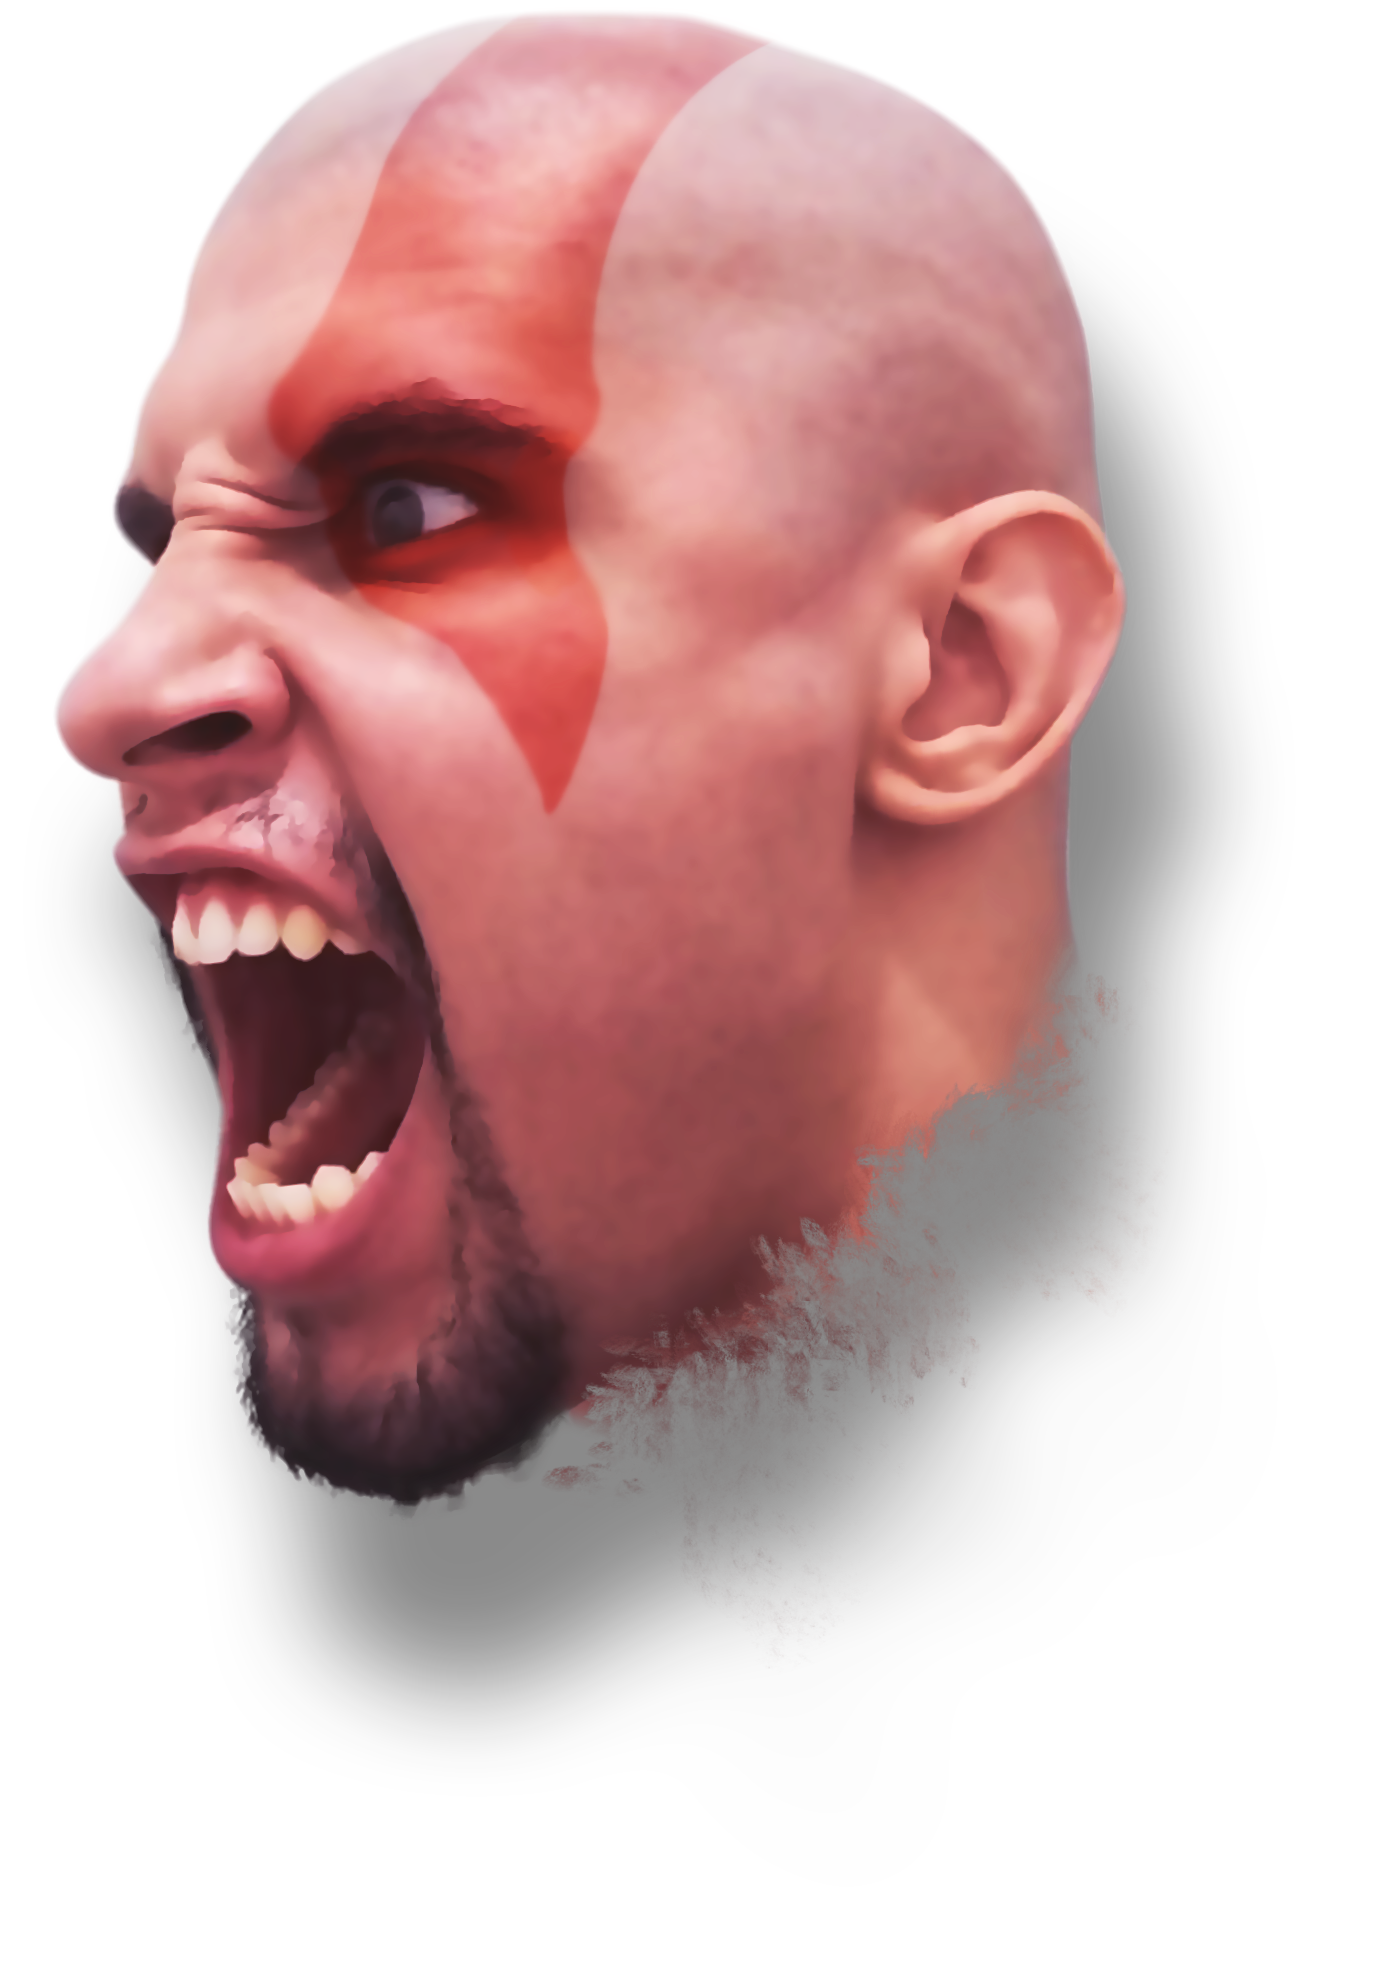
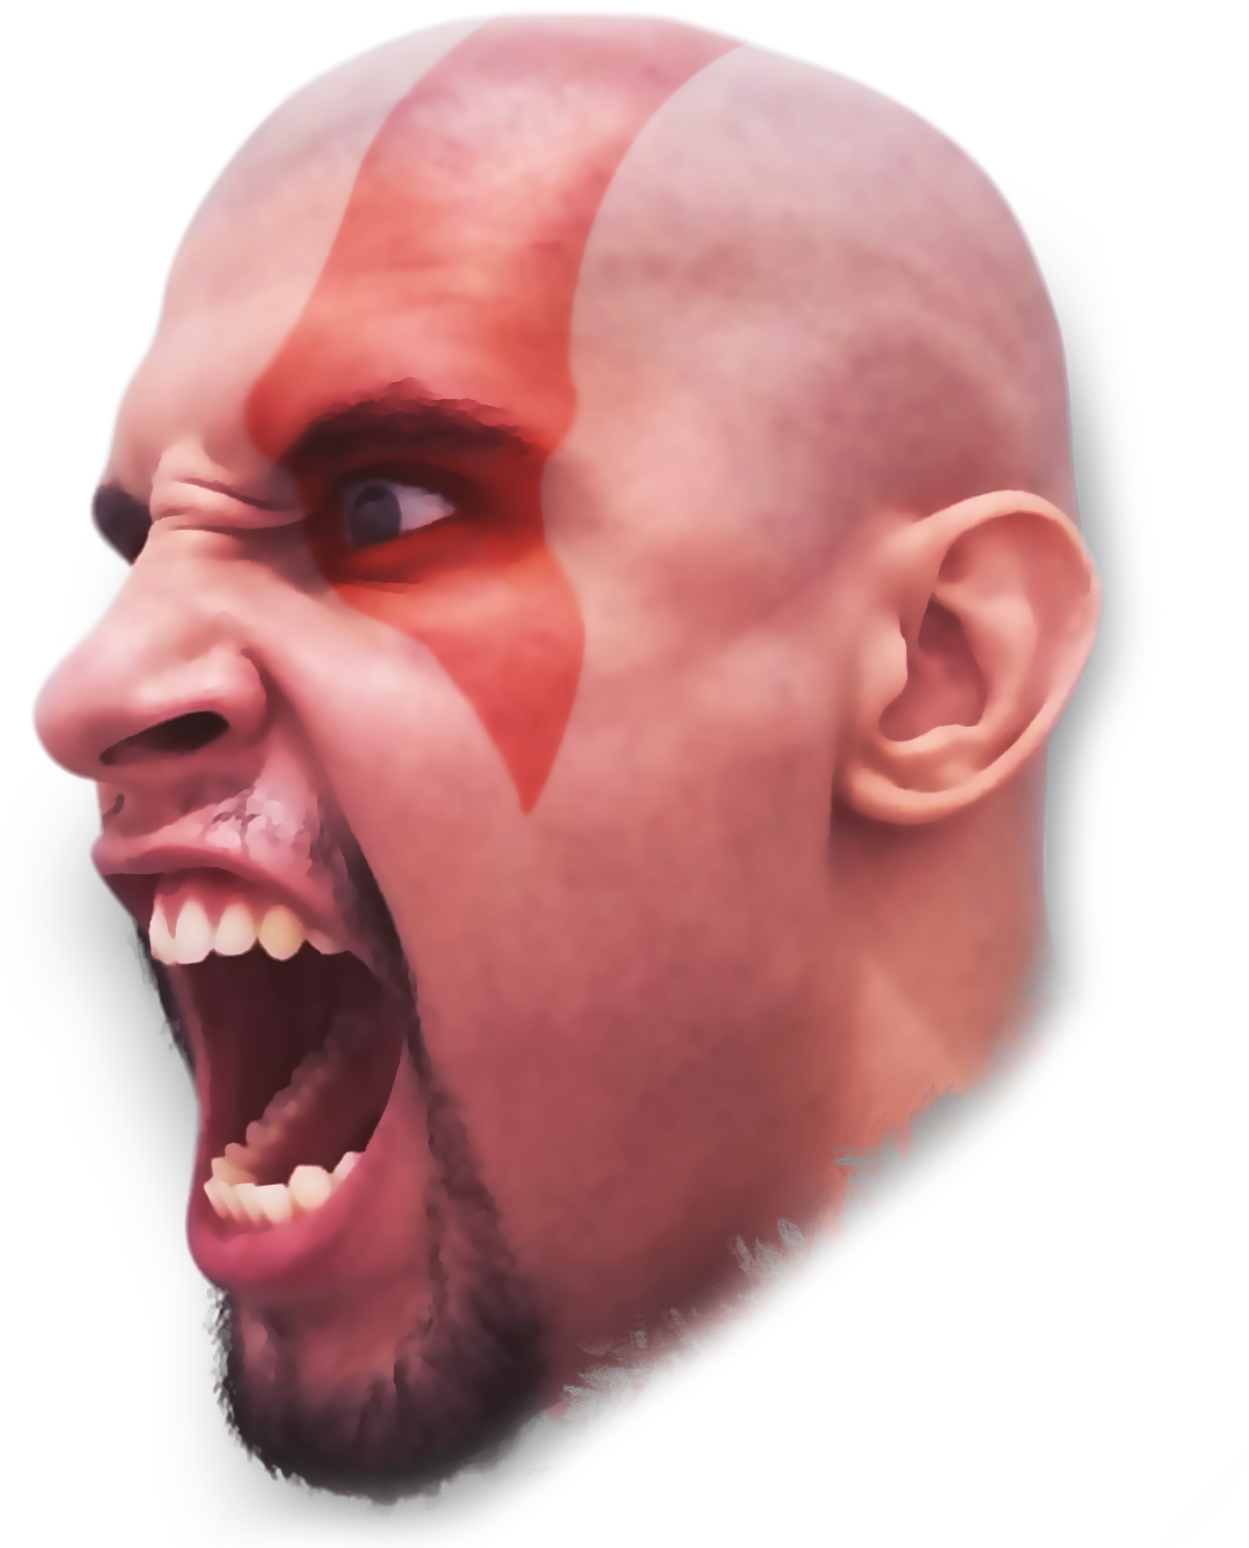
update
update

diff --git a/index.html b/index.html
@@ -64,7 +64,7 @@
 
   <!--home-->
   <div class="d-flex align-items-center wall text-light">
-    <div class="container p-5">      
+    <div class="container p-5">
       <h1 class="show-1 slide title"><img class="slide-top" src="assets/0.jpg" width="80px" style="border-radius: 50%;border:3px solid #ff3300 ;" alt="renato"> RENATO <span>G SANTOS</span></h1>
       <div class="divisor slide"></div>
       <h2 class="show-2 slide">Designer Gráfico & Web Designer</h2>
@@ -89,11 +89,7 @@
         <a class="btn button-1 show-3 slide disabled" href="" rel="noopener noreferrer">Download CV <i class="fas fa-cloud-download-alt"></i></a>
       </div>
       <div class="col-lg-6 text-light text-center p-5">
-        <div class="card-1 slide p-5">
-          <img class="slide-top show-2" src="assets/icons/038-start up.png" width="100%" alt="">
-          <hr>
-          <h3 class="show-2">Hello World!</h3>
-        </div>
+        <img class="slide-top slide show-2" src="assets/head.png" width="100%" alt="">
       </div>
     </div>
   </div>
